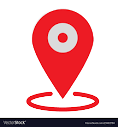
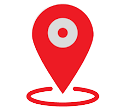
added

diff --git a/src/Component/List/List.jsx b/src/Component/List/List.jsx
@@ -1,9 +1,95 @@
-import React from 'react';
+import React, { useState } from 'react';
+import InputLabel from '@mui/material/InputLabel';
+import MenuItem from '@mui/material/MenuItem';
+import FormControl from '@mui/material/FormControl';
+import Select from '@mui/material/Select';
+import { styled } from '@mui/material/styles';
+import Box from '@mui/material/Box';
+import Paper from '@mui/material/Paper';
+import { Grid } from '@mui/material';
+import PlaceDetails from '../../Component/PlaceDetails/PlaceDetails'
+const List = ({placeData}) => {
 
-const List = () => {
+    const [type, setType] = React.useState('');
+    const [rate, setRate] = React.useState('');
+    const Item = styled(Paper)(({ theme }) => ({
+        backgroundColor: theme.palette.mode === 'dark' ? '#1A2027' : '#fff',
+        ...theme.typography.body2,
+        padding: theme.spacing(1),
+        textAlign: 'center',
+        color: theme.palette.text.secondary,
+      }));
+    const handleChange = (event) => {
+      setType(event.target.value);
+    };
+
+
+  //  const places =[
+  // {fName:'frace'},
+  // {fName:'rog'},
+  // {fName:'frdsdfce'},
+  // {fName:'fracdgae'},
+  // {fName:'rog'},
+  // {fName:'frdsdfce'},
+  // {fName:'fracdgae'},
+  // {fName:'rog'},
+  // {fName:'frdsdfce'},
+  // {fName:'fracdgae'}
+   
+
+  //  ]
     return (
         <div>
-            <h2> list</h2>
+           <FormControl sx={{ m: 1, minWidth: 120 }} size="small">
+      <InputLabel id="demo-select-small">Places</InputLabel>
+      <Select
+        labelId="demo-select-small"
+        id="demo-select-small"
+        value={type}
+        label="Places"
+        onChange={handleChange}
+      >
+        <MenuItem value="">
+          <em>None</em>
+        </MenuItem>
+        <MenuItem value="resturants">Resturants</MenuItem>
+        <MenuItem value="hotels">Hotels</MenuItem>
+        <MenuItem value="attractions">Attractions</MenuItem>
+      </Select>
+    </FormControl>
+           <FormControl sx={{ m: 1, minWidth: 120 }} size="small">
+      <InputLabel id="demo-select-small">Rating</InputLabel>
+      <Select
+        labelId="demo-select-small"
+        id="demo-select-small"
+        value={rate}
+        label="Places"
+        onChange={(e)=>{setRate(e.target.value)}}
+      >
+        <MenuItem value="">
+          <em>None</em>
+        </MenuItem>
+        <MenuItem value="0">All</MenuItem>
+        <MenuItem value="3">Above 3.0 </MenuItem>
+        <MenuItem value="4">Above 4.0 </MenuItem>
+        <MenuItem value="4.5">Above 4.5 </MenuItem>
+        
+      </Select>
+    </FormControl>
+
+<div>
+    
+<Grid sx={{marginLeft:'15px',height:'500px',overflow:'scroll'}} container >
+
+{
+
+    placeData && placeData.map((data,index)=>(
+        <Grid  Item xs={12} > <PlaceDetails data={data} key={index}></PlaceDetails></Grid>
+    ))
+}
+</Grid>
+</div>
+
         </div>
     );
 };

diff --git a/src/Component/Map/Mymap.jsx b/src/Component/Map/Mymap.jsx
@@ -1,0 +1,82 @@
+import React, { useEffect, useRef, useState } from 'react';
+// import 'leaflet/dist/leaflet.css';
+
+import { useMap, MapContainer, TileLayer, Marker, Popup, useMapEvents, MapConsumer } from 'react-leaflet';
+import 'leaflet/dist/leaflet.css';
+import L from 'leaflet'
+<link rel="stylesheet" href="https://unpkg.com/leaflet@1.0.1/dist/leaflet.css" />
+
+const markerIcon=new L.Icon({
+  iconUrl:require('./images-removebg-preview.png'),
+  iconSize:[35,45],
+})
+
+const Mymap = ({setBound,setCoordinates,coordinates}) => {
+
+  const [isInitialRender, setIsInitialRender] = useState(true);
+
+  const position = [51.505, -0.09];
+  
+  return (
+    <div style={{marginTop:'30px'}}>
+      {/* <h2>Hello here the map will come my brothers </h2> */}
+      
+      <MapContainer 
+      // dragging={false}
+        doubleClickZoom={false}
+        // scrollWheelZoom={false}
+        // attributionControl={false}
+        zoomControl={false}
+         center={position}
+        style={{ height: '75vh', width: '100wh' }} 
+        zoom={14}
+        
+          
+         >
+
+      {/* <MyComponent/> */}
+     
+     
+      <TileLayer 
+                attribution='&copy; <a href="http://osm.org/copyright">OpenStreetMap</a> contributors'
+                  url="https://{s}.tile.openstreetmap.org/{z}/{x}/{y}.png"
+                                                                                ></TileLayer>
+       <MapConsumer>
+        {(map) => {
+          // console.log("map center:", map.getCenter());
+          
+
+         if(isInitialRender) {
+          setCoordinates({lat:map.getCenter().lat,lng:map.getCenter().lng});
+          setBound({ls:map.getBounds()._southWest});
+          // console.log(map.getBounds()._southWest,'bounds dekaho ')
+         }
+         setIsInitialRender(false)
+
+
+
+
+          // map.on("click", function (e) {
+          //   // const { lat, lng } = e.latlng;
+            
+          //   // L.marker([lat, lng], { icon }).addTo(map);
+          // });
+          return null;
+        }}
+      </MapConsumer>
+           <Marker icon={markerIcon} position={position}>
+                           <Popup>
+                                 Welcome I have done this. <br />  Lets find what you need.
+                          </Popup>
+           </Marker>
+
+        </MapContainer>
+        
+
+                        </div>
+  );
+};
+
+export default Mymap;
+
+ 

diff --git a/src/App.js b/src/App.js
@@ -1,13 +1,34 @@
-import React from 'react';
+import React, { useEffect, useState } from 'react';
 import Header from './Component/Header/Header';
 import CssBaseline from '@mui/material/CssBaseline';
 import { Grid } from '@mui/material';
-// import Map from './Component/Map/Map';
+
 import List from './Component/List/List';
-import Mymap from './Component/Map/Map';
-{/* <link rel="stylesheet" href="https://unpkg.com/leaflet@1.0.1/dist/leaflet.css" /> */}
+import Mymap from './Component/Map/Mymap';
+import { getPlaceData } from './Api/placeApi';
+
+
 <link rel="stylesheet" href="https://unpkg.com/leaflet@1.0.1/dist/leaflet.css" />
 const App= ()=>{
+
+const [placeData,setPlaceData]=useState([]);
+const [coordinates,setCoordinates]=useState({});
+const [bound,setBound]=useState({});
+useEffect(()=>{
+
+  getPlaceData()
+  .then(data=>{
+    setPlaceData(data)
+    // console.log(data)
+  })
+},[])
+  
+
+console.log(coordinates,'app.js thekee bolsi ami ')
+console.log(bound,'bounds boltesi app theke  ')
+  // here I am gonna load the api data 
+
+
 
     return(
 
@@ -17,10 +38,10 @@ const App= ()=>{
             <Header></Header>
             <Grid container spacing={3} style={{width: '100%'}}>
   <Grid item xs={12} md={4}>
-  <List></List>
+  <List placeData={placeData}></List>
   </Grid>
-  <Grid item xs={12} md={4}>
-    <Mymap/>
+  <Grid item xs={12} md={8}>
+    <Mymap coordinates={coordinates} setCoordinates={setCoordinates} setBound={setBound} />
   </Grid>
 </Grid>
         

diff --git a/src/Api/placeApi.js b/src/Api/placeApi.js
@@ -1,0 +1,35 @@
+import { CatchingPokemon } from '@mui/icons-material';
+import axios from 'axios';
+
+
+const placeUrl='https://travel-advisor.p.rapidapi.com/restaurants/list-in-boundary';
+// this has been copid from rapid api and this is javascript axios 
+const options = {
+  params: {
+    bl_latitude: '11.847676',
+    tr_latitude: '12.838442',
+    bl_longitude: '109.095887',
+    tr_longitude: '109.149359',
+  },
+  headers: {
+    'X-RapidAPI-Key': '24f4f87e16msh1e0eeaa01dfb4e8p1b24a1jsnf0eb4fba03d6',
+    'X-RapidAPI-Host': 'travel-advisor.p.rapidapi.com'
+  }
+};
+
+
+// axios.request(options).then(function (response) {
+// 	console.log(response.data);
+// }).catch(function (error) {
+// 	console.error(error);
+// });
+
+export  const  getPlaceData=async ()=>{
+    try{
+        const {data:{data}} =await axios.get(placeUrl,options);
+        return data;
+    }
+    catch(error){
+        console.log(error)
+    }
+} ;

diff --git a/src/Component/PlaceDetails/PlaceDetails.jsx b/src/Component/PlaceDetails/PlaceDetails.jsx
@@ -1,9 +1,10 @@
 import React from 'react';
 
-const PlaceDetails = () => {
+const PlaceDetails = ({data}) => {
+    const {fName}=data
     return (
         <div>
-            <h1> Placedetails</h1>
+            <h1> {fName}</h1>
         </div>
     );
 };
